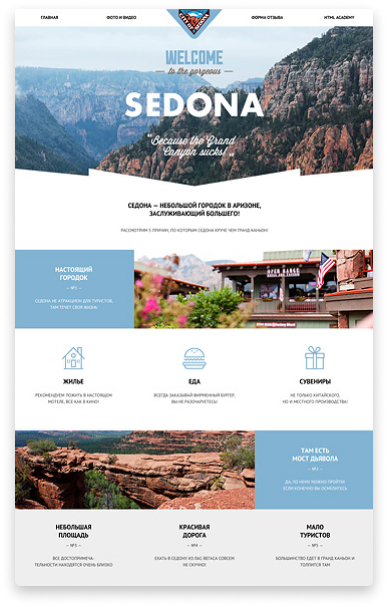
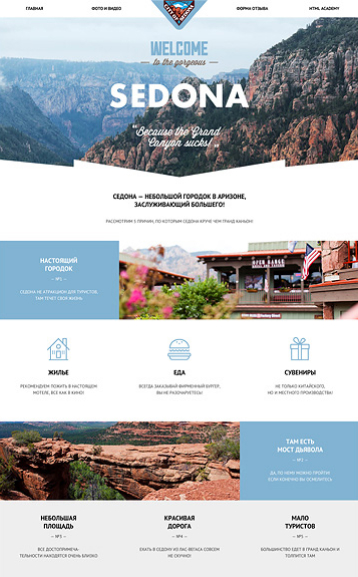
раскладка на флексах и гридах(каталог и главная)

diff --git a/style.css b/style.css
@@ -166,6 +166,7 @@ a {
 
 .main-header-logo {
     padding-top: 48px;
+    padding-right: 202px;
     /*outline: 5px solid rgba(2, 219, 248, 0.3);
     outline-offset: -5px; */
 }
@@ -173,7 +174,7 @@ a {
 .main-navigation {
     display: grid;
     grid-template-columns: 160px 760px 160px;
-    column-gap: 45px;
+    column-gap: 40px;
     font-size: 16px;
     line-height: 30px;
     text-transform: uppercase;
@@ -187,7 +188,7 @@ a {
 .site-navigation {
     display: flex;
     flex-wrap: wrap;
-    justify-content: space-evenly;
+    justify-content: center;
     padding-top: 60px;
     list-style: none;
     font-weight: 500;
@@ -195,8 +196,14 @@ a {
     line-height: 30px;
 }
 
-.site-group:active,
-.basket:active {
+.site-navigation li {
+    margin-left: 44px;
+}
+
+
+/* navigation */
+
+.site-group:active {
     opacity: 0.3;
     border-bottom: 2px solid var(--basic-red);
 }
@@ -213,6 +220,14 @@ a {
 }
 
 .site-active {
+    border-bottom: 2px solid var(--basic-red);
+}
+
+
+/* basket */
+
+.basket:active {
+    opacity: 0.3;
     border-bottom: 2px solid var(--basic-red);
 }
 
@@ -299,6 +314,7 @@ a {
     color: var(--basic-dark);
     width: 260px;
     cursor: pointer;
+    font-weight: 700;
 }
 
 
@@ -338,8 +354,13 @@ a {
 }
 
 .show-submit:active {
-    background-color: var(--basic-shadow-white);
+    background: var(--basic-shadow-white);
     box-shadow: inset 0px 3px 0px rgba(0, 1, 1, 0.1);
+    border-radius: 3px;
+}
+
+.show-submit:active a {
+    mix-blend-mode: normal;
     opacity: 0.3;
 }
 
@@ -902,7 +923,8 @@ a {
 
 /* sort-type */
 
-.active-price {
+.price-active {
+    color: var(--basic-dark);
     cursor: text;
 }
 
@@ -928,21 +950,42 @@ a {
 
 /* sort-height */
 
-.arrow-up:hover path,
-.arrow-down:hover path {
-    fill: 166, 166, 166;
+.arrow-up {
+    position: relative;
 }
 
-.arrow-up:active path,
-.arrow-down:active path {
-    fill-opacity: .5;
+.arrow-down {
+    position: relative;
+    padding-left: 15px;
+}
+
+.arrow-up::before {
+    content: url(img/catalogmain/icon.svg);
+    position: absolute;
+    top: 2px;
+}
+
+.arrow-down::before {
+    content: url(img/catalogmain/icon.svg);
+    position: absolute;
+    opacity: .2;
+    transform: rotate(180deg);
+    top: -1px;
+}
+
+.arrow-up:active::before,
+.arrow-down:active::before {
+    opacity: 1;
+}
+
+.arrow-up:hover::before,
+.arrow-down:hover::before {
+    opacity: .4;
 }
 
 .sort-list-center {
     display: flex;
-    justify-content: space-between;
     align-items: center;
-    min-height: 70px;
 }
 
 .example-list {
@@ -976,7 +1019,7 @@ a {
 
 .sort-height {
     display: flex;
-    justify-content: space-around;
+    flex-direction: row;
     list-style: none;
 }
 
@@ -1041,11 +1084,15 @@ a {
     box-shadow: 0px 6px 15px rgba(0, 0, 0, 0.25);
 }
 
+
+/* pagination */
+
 .general-pagination {
     display: flex;
     padding-left: 10px;
     flex-wrap: wrap;
     border-radius: 3px;
+    font-weight: 700;
     /*outline: 5px solid rgba(0, 255, 255, 0.7);
         outline-offset: -5px;  */
 }
@@ -1057,23 +1104,45 @@ a {
 .page-active {
     width: 50px;
     height: 50px;
-    padding-top: 15px;
+    padding-top: 12px;
     text-align: center;
     background-color: var(--basic-white);
+    background-color: var(--basic-ligth);
     border: 3px solid var(--basic-pagination-first);
     box-sizing: border-box;
     border-radius: 3px;
+    margin-right: 11px;
+}
+
+.active-page-one {
+    background: rgba(0, 0, 0, 0.0001);
+    border: 3px solid #DBDBDB;
+    box-sizing: border-box;
+    border-radius: 3px;
+}
+
+.page-active:hover,
+.pagination-page:hover {
+    background-color: var(--basic-extra-white);
+}
+
+.page-active:active,
+.pagination-page:active {
+    box-shadow: inset 0px 3px 0px rgba(0, 1, 1, 0.1);
+    border-radius: 3px;
+    mix-blend-mode: normal;
+    opacity: 0.3;
 }
 
 .pagination-page {
     text-align: center;
     width: 50px;
     height: 50px;
-    padding-top: 15px;
+    padding-top: 12px;
     box-sizing: border-box;
     background-color: var(--basic-white);
-    border: 3px solid var(--basic-pagination-first);
     background-color: var(--basic-ligth);
+    margin-right: 11px;
 }
 
 .general-pagination {

diff --git a/catalog.html b/catalog.html
@@ -130,38 +130,26 @@
 
             <section class="example-list">
                 <h2 class="wrapper-hidden">Каталог шаблонов</h2>
-                <div class="simple-center">
-                    <div class="sort-list-center">
-                        <p class="sort-list">Сортировать:</p>
 
-                        <ul class="sort-type">
-                            <li><a class="active-price" href="#">По цене</a></li>
-                            <li><a class="link-active" href="#">По типу</a></li>
-                            <li><a class="link-active" href="#">По названию</a></li>
-                        </ul>
+                <div class="sort-list-center">
+                    <p class="sort-list">Сортировать:</p>
+                    <ul class="sort-type">
+                        <li><a class="price-active" href="#">По цене</a></li>
+                        <li><a class="link-active" href="#">По типу</a></li>
+                        <li><a class="link-active" href="#">По названию</a></li>
+                    </ul>
 
-                        <ul class="sort-height">
-                            <li>
-                                <a class="arrow-up" href="#">
-                                    <svg width="11" height="10" viewBox="0 0 11 10" fill="none" xmlns="http://www.w3.org/2000/svg"><g opacity="0.2">
-                                      <path d="M5.5 0L0 10H11L5.5 0Z" fill="#A6A6A6"/></g>
-                                   </svg>
+                    <ul class="sort-height">
+                        <li>
+                            <a class="arrow-up" href="#"></a>
+                        </li>
 
-
-                                </a>
-                            </li>
-
-                            <li>
-                                <a class="arrow-down" href="#">
-                                    <svg width="11" height="10" viewBox="0 0 11 10" fill="none" xmlns="http://www.w3.org/2000/svg"><g opacity="0.2">
-                                        <path d="M5.5 10L0 0H11" fill="#A6A6A6"/></g>
-                                    </svg>
-
-                                </a>
-                            </li>
-                        </ul>
-                    </div>
+                        <li>
+                            <a class="arrow-down" href="#"></a>
+                        </li>
+                    </ul>
                 </div>
+
 
                 <ul class="examples-work">
                     <li class="catalog-item">
@@ -237,7 +225,7 @@
                 </ul>
 
                 <ul class="general-pagination">
-                    <li class="page-active"><a>1</a></li>
+                    <li class="page-active active-page-one"><a>1</a></li>
                     <li class="pagination-page"><a href="blank.html">2</a></li>
                     <li class="pagination-page"><a href="blank.html">3</a></li>
                     <li class="show-submit button"><a href="blank.html">Следующая</a></li>
